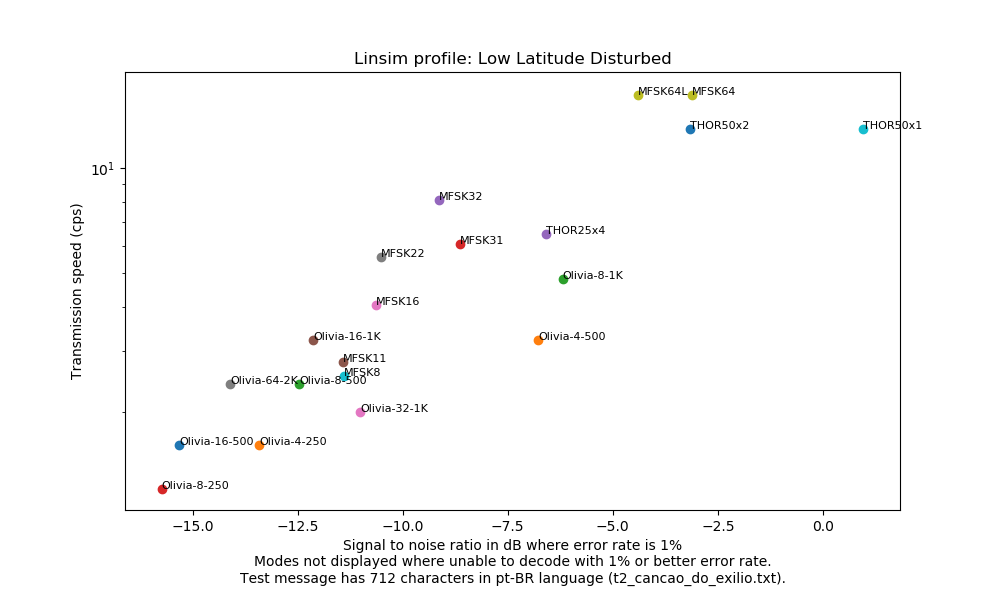
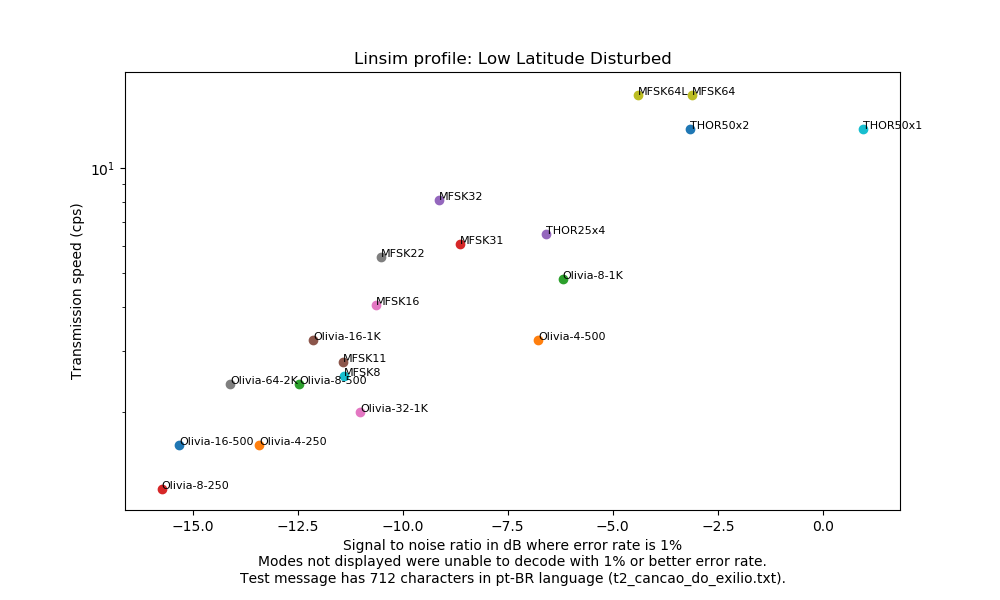
Typo

Changed region(s): [[0.248, 0.93, 0.775, 0.96]]

diff --git a/3_plot_datapoints.py b/3_plot_datapoints.py
@@ -34,7 +34,7 @@ for n in profile_names.values():
     ax.set_xscale('linear')
     ax.set_xlabel(
         'Signal to noise ratio in dB where error rate is 1%\n'
-        'Modes not displayed where unable to decode with 1% or better error rate.\n'
+        'Modes not displayed were unable to decode with 1% or better error rate.\n'
         'Test message has 712 characters in pt-BR language (t2_cancao_do_exilio.txt).',
     )
     fig.subplots_adjust(bottom=0.15)
